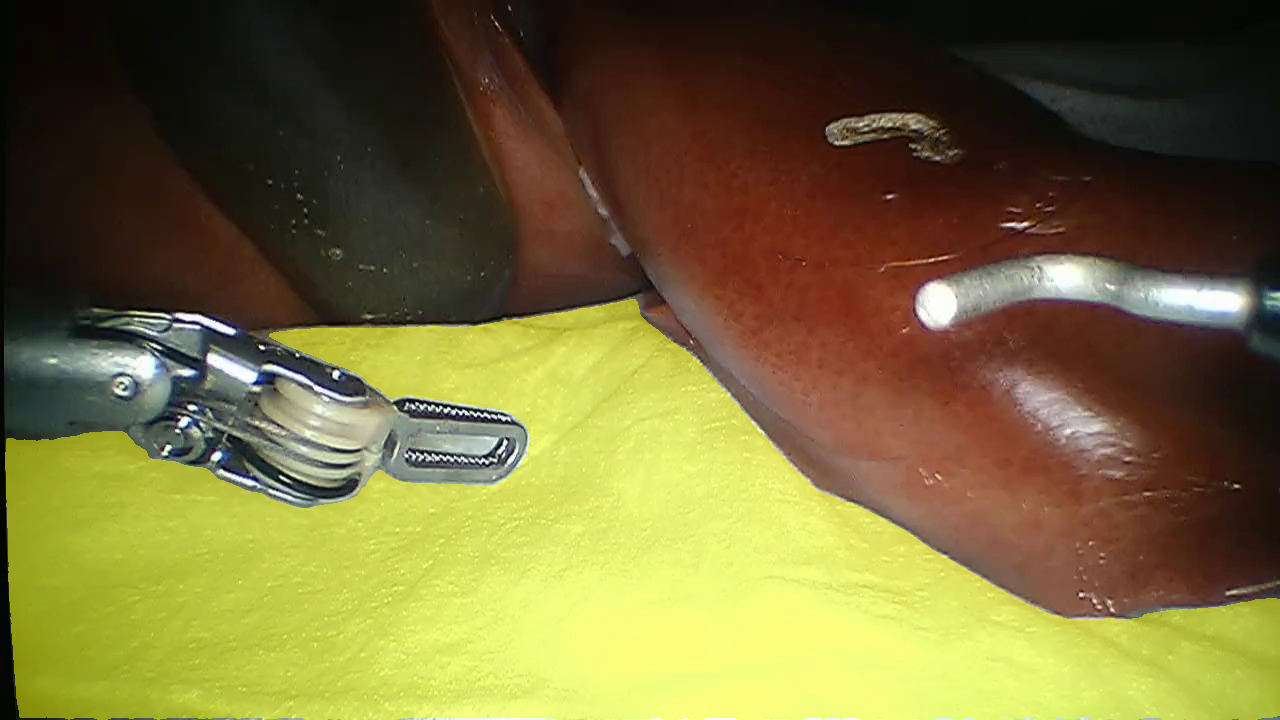
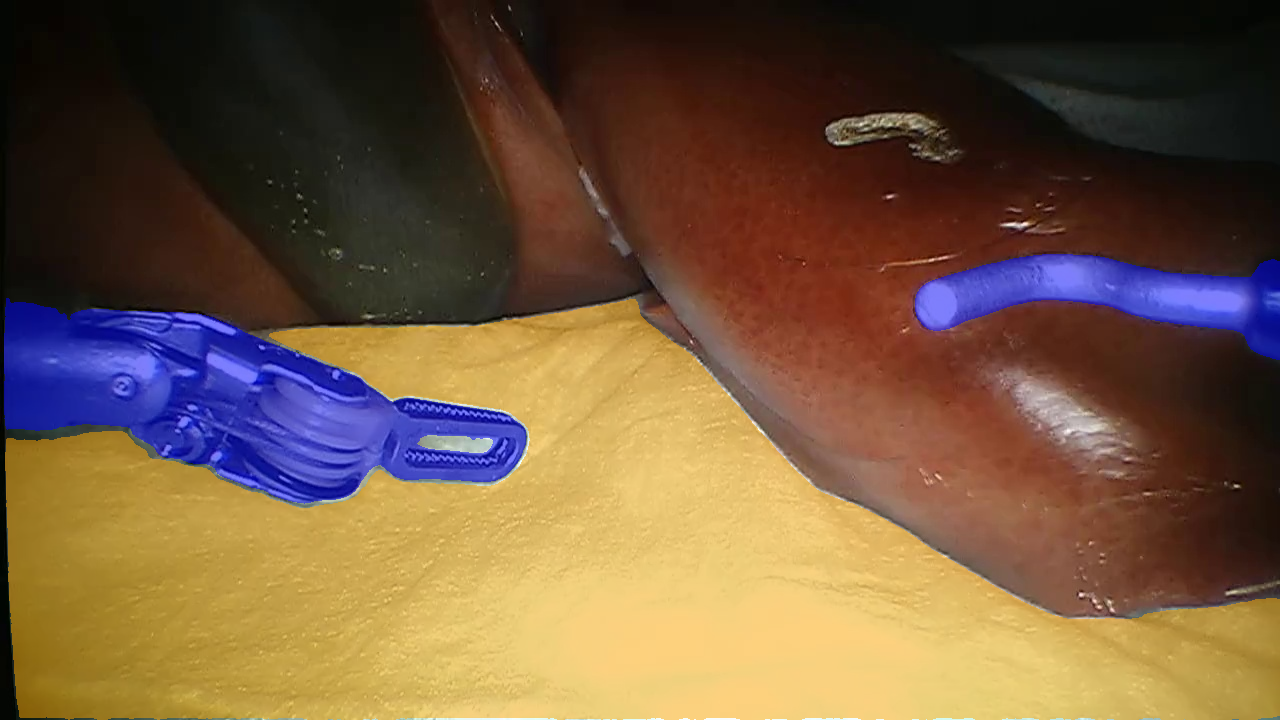
Testing

diff --git a/scripts/test_crcd_prompts.py b/scripts/test_crcd_prompts.py
@@ -168,10 +168,11 @@ def create_overlay(image: Image.Image, masks: dict, alpha: float = 0.5) -> Image
     """
     # Color palette for different prompts
     colors = {
-        "liver": (255, 0, 0),      # Red
-        "gallbladder": (0, 255, 0), # Green
-        "tool": (0, 0, 255),       # Blue
+        "reddish-brown organ": (255, 0, 0),      # Red
+        "greenish-grey organ": (0, 255, 0), # Green
+        "surgical tool": (0, 0, 255),       # Blue
         "instrument": (0, 0, 255), # Blue (alias)
+        "cloth": (255, 165, 0),               # Orange
         "default": (255, 255, 0),  # Yellow for unknown
     }
 
